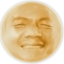
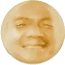
sds

diff --git a/baby_bird/index.html b/baby_bird/index.html
@@ -123,7 +123,7 @@ $(function() {
   left: 40%;
   width: 10vw;
   height: 10vw;
-  background-image: url(img/js.svg);
+  background-image: url(img/js.png);
   background-repeat: no-repeat;
   background-size: cover;
 }
@@ -167,28 +167,28 @@ body.gg > .gameover {
 .obstacle.moon {
   width: 10vw;
   height: 10vw;
-  background-image: url(img/moon.svg);
+  background-image: url(img/moon.png);
 }
 .obstacle.cloud {
   width: 15vw;
   height: 15vw;
-  background-image: url(img/cloud.svg);
+  background-image: url(img/cloud.png);
 
 }
 .obstacle.flower {
   width: 10vw;
   height: 10vw;
-  background-image: url(img/flower.svg);
+  background-image: url(img/flower.png);
 }
 .obstacle.planet2 {
   width: 10vw;
   height: 10vw;
-  background-image: url(img/planet2.svg);
+  background-image: url(img/planet2.png);
 }
 .obstacle.planet {
   width: 10vw;
   height: 10vw;
-  background-image: url(img/planet.svg);
+  background-image: url(img/planet.png);
 }
 </style>
 <body>
